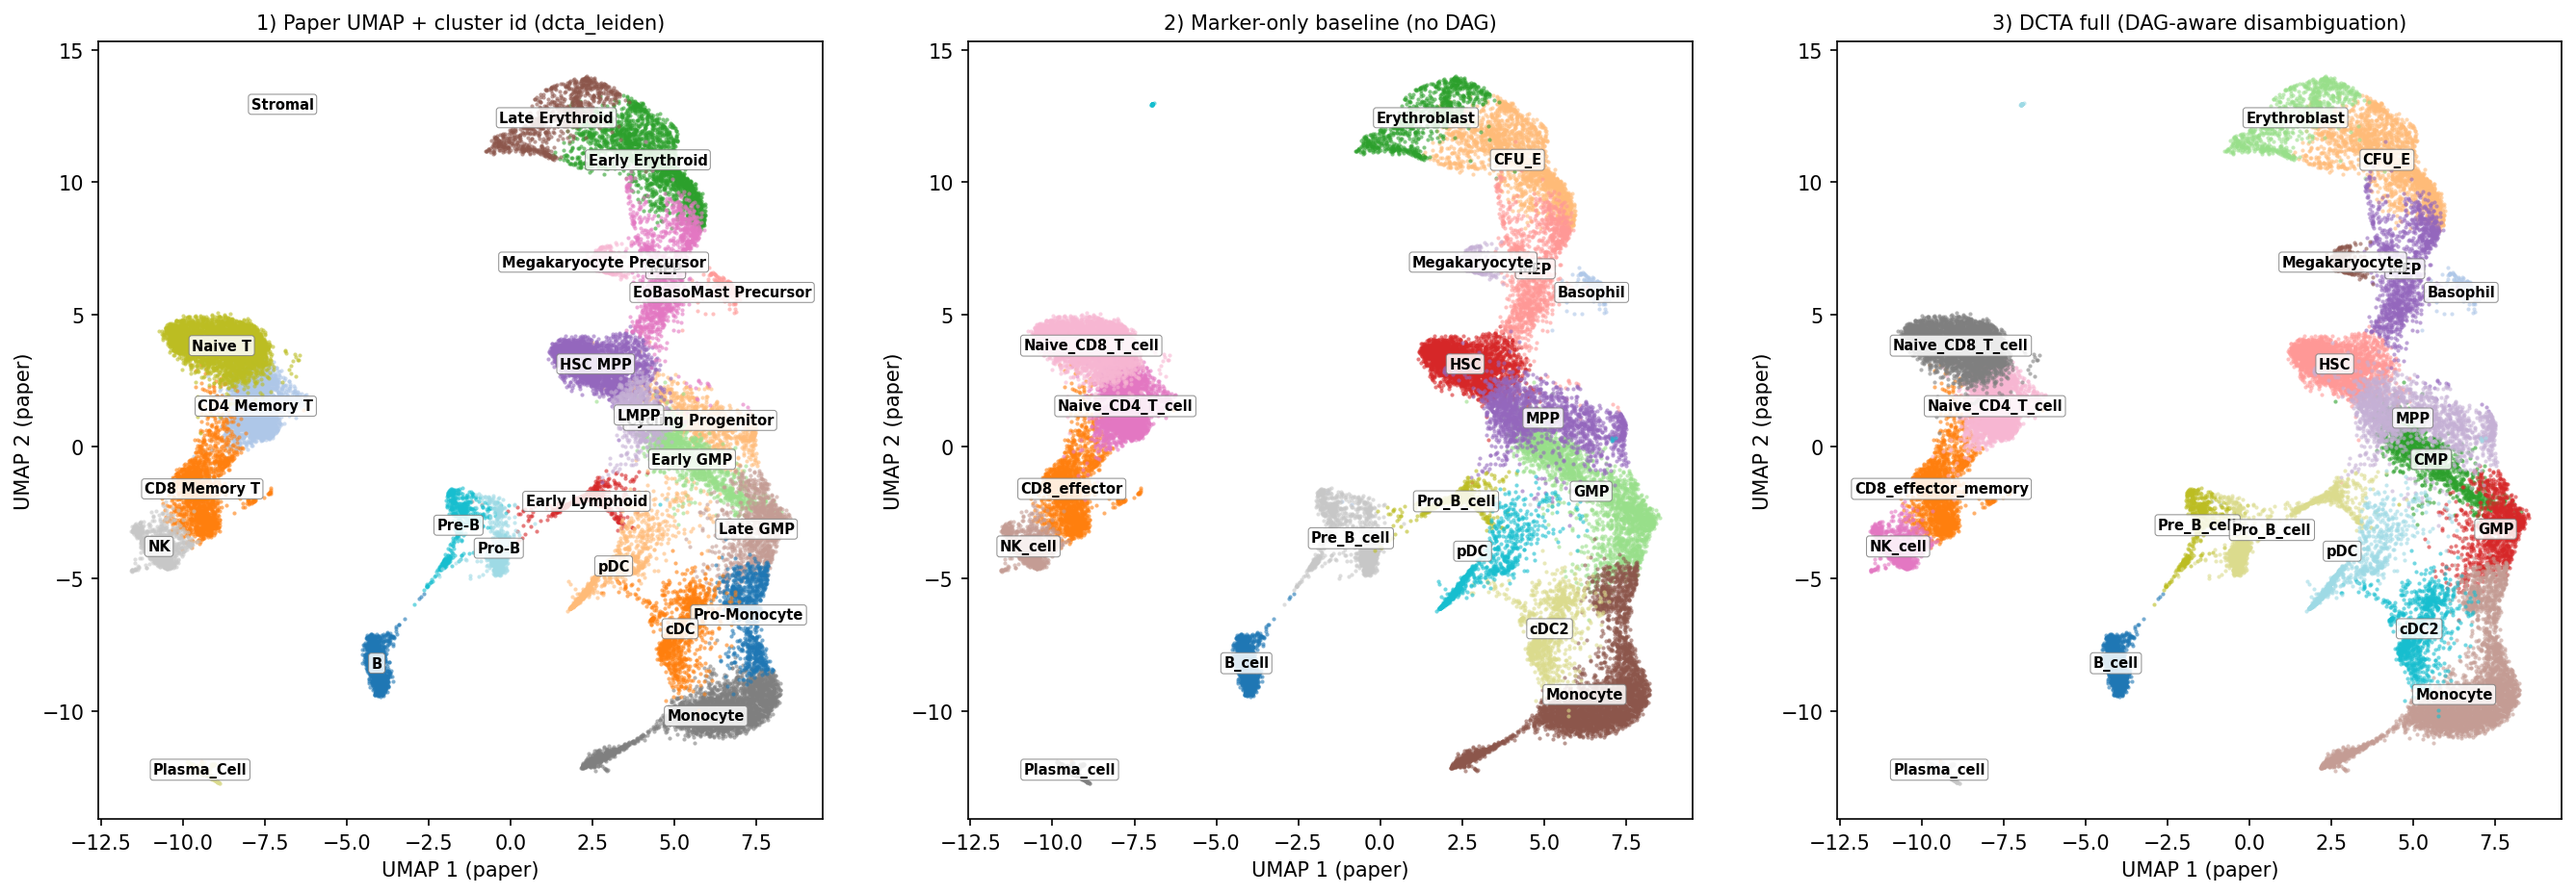
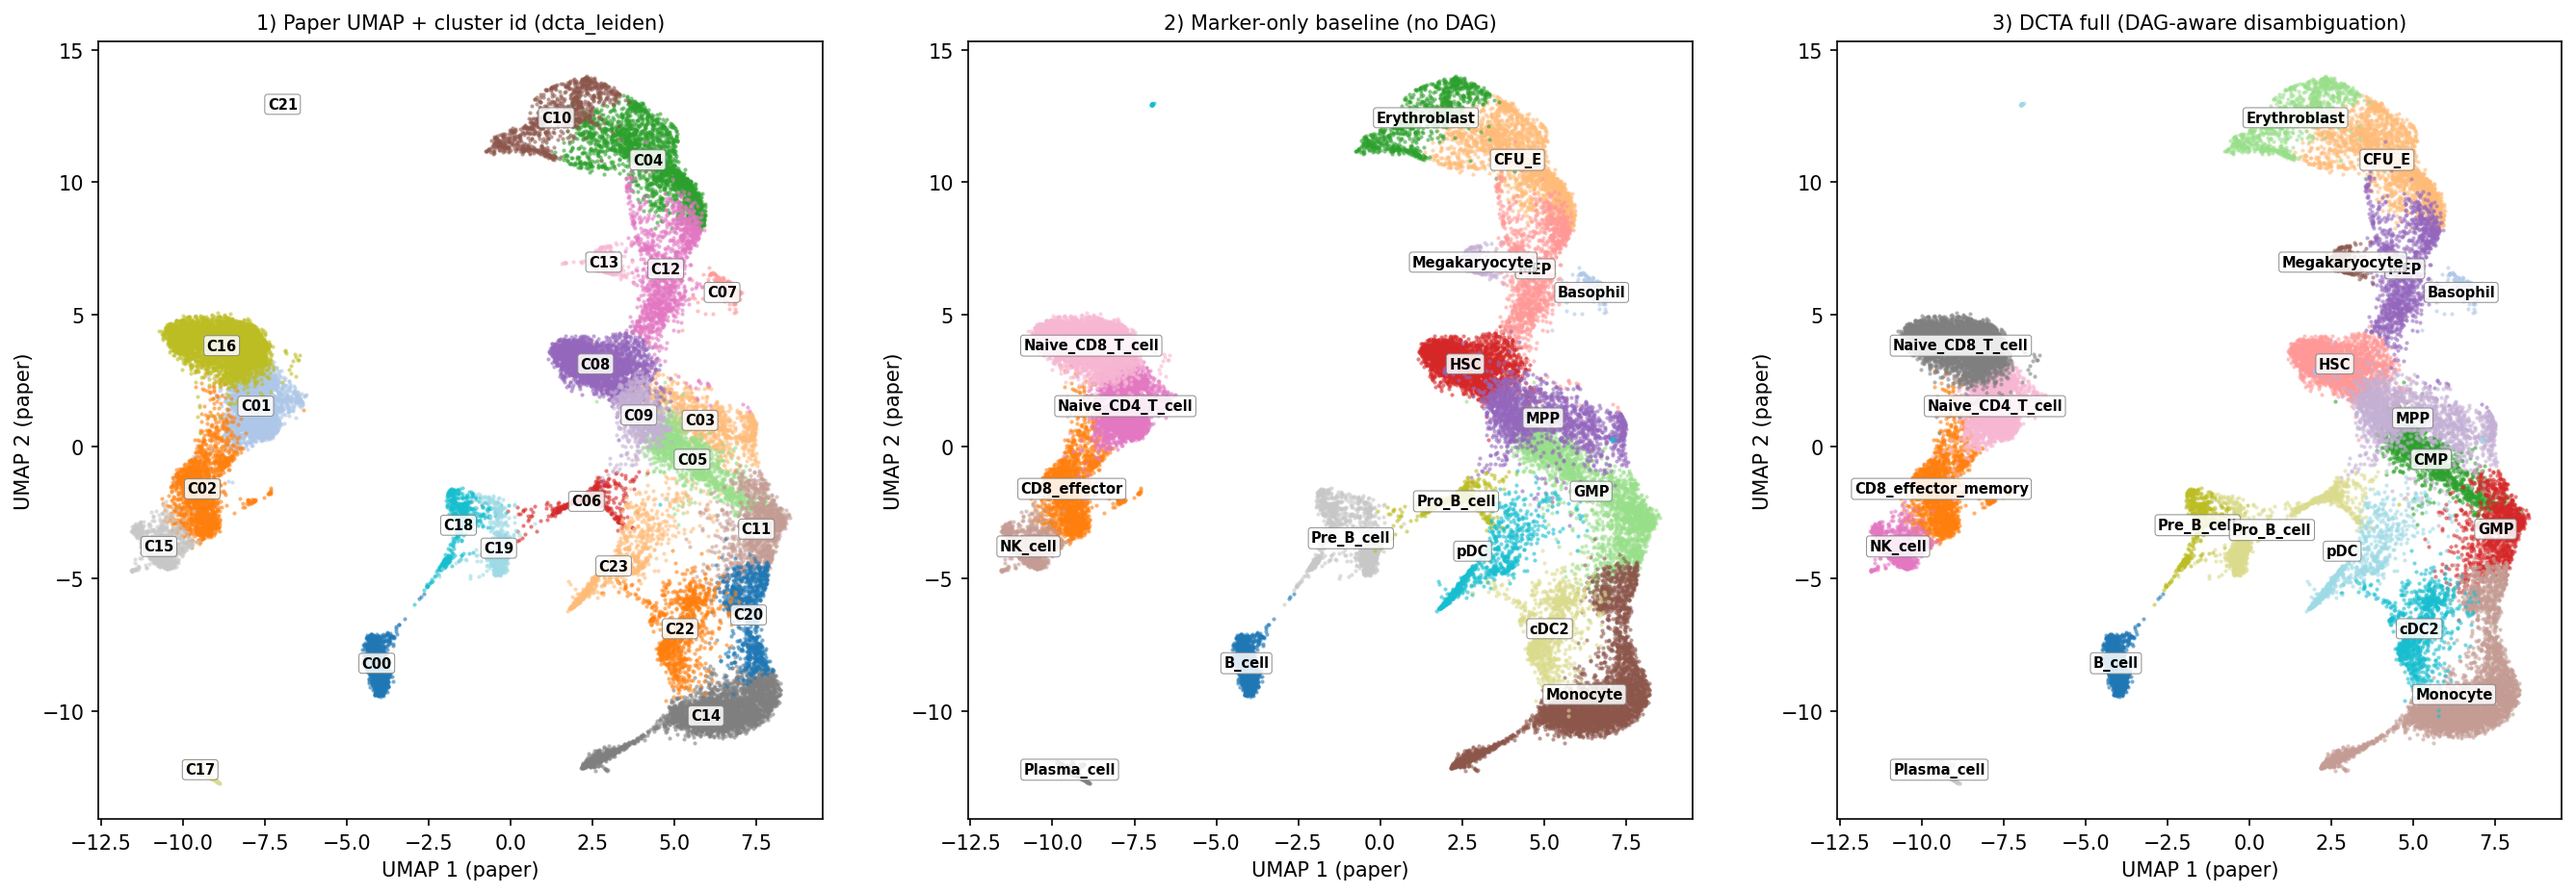
Phase 2.10.1: anonymize cluster labels from --cluster-from-obs by default
User directive: 'AuthorCellType_Broad cluster 구조를 그대로 가져와서,
label만 지운다음 사용'. Avoids label leakage when the source obs
column is a paper-curated cell-type annotation.

dcta.connectivity.run:
  New kwarg: anonymize_cluster_labels (default True).
  When cluster_from_obs is given AND anonymize=True, preserve cluster
  MEMBERSHIP but rewrite the labels to 'C00', 'C01', ... in
  lexicographic order of the source labels.
  Original mapping stored in uns['dcta']['cluster_label_map']
  ({'C00': 'B', 'C01': 'CD4 Memory T', ...}) for debugging/viz.

CLI: --keep-cluster-labels (action='store_true', default False) lets
the user opt out and keep the original labels if they explicitly
want them for downstream label inspection.

Zeng2025_BMM 30k re-run (cluster_from_obs Broad, default anonymize):
  Identical metrics to Phase 2.10:
    strict_acc:    0.620
    lineage_acc:   0.956
    marker-only:   0.598
    DCTA over baseline: +2.2 pp
    3/24 clusters changed
  Different from Phase 2.10:
    cluster IDs:     C00..C23 (was 'HSC MPP', 'LMPP', ...)
    root_cluster:    'C08' (was 'HSC MPP')
    backbone path:   C08 -> C09 -> C03 -> C05 -> C07 -> C12 -> C04 -> C10
    prior_labels:    HSC -> MPP -> MPP -> CMP -> Basophil -> MEP ->
                     CFU_E -> Erythroblast  (unchanged: marker scoring
                     identifies root + chain correctly without seeing
                     the paper labels)

This is the cleanest evaluation setup: DCTA receives only cluster
[…]

diff --git a/dcta/connectivity.py b/dcta/connectivity.py
@@ -22,6 +22,7 @@ def run(
     random_state: int = D.RANDOM_STATE,
     cluster_from_obs: str | None = None,
     use_rep: str = "X_harmony",
+    anonymize_cluster_labels: bool = True,
 ) -> ad.AnnData:
     """Build KNN on `use_rep`, cluster, and PAGA.
 
@@ -53,15 +54,29 @@ def run(
                 f"cluster_from_obs={cluster_from_obs!r} not in adata.obs"
             )
         raw = a.obs[cluster_from_obs].astype(object).to_numpy()
-        labels_str = np.array([
+        raw_str = np.array([
             "__NA__" if (v is None or (isinstance(v, float) and np.isnan(v))
                          or str(v).lower() in ("nan", "none", ""))
             else str(v)
             for v in raw
         ])
+        if anonymize_cluster_labels:
+            # Anonymize: preserve cluster membership but strip semantic
+            # labels (avoid label leakage when the source column is a
+            # paper-curated cell-type annotation).
+            uniq_raw = sorted(set(raw_str) - {"__NA__"})
+            mapping = {lbl: f"C{i:02d}" for i, lbl in enumerate(uniq_raw)}
+            mapping["__NA__"] = "__NA__"
+            labels_str = np.array([mapping[s] for s in raw_str])
+            cluster_label_map = {v: k for k, v in mapping.items() if k != "__NA__"}
+            cluster_source = (f"obs:{cluster_from_obs}(anonymized -> "
+                              f"C00..C{len(uniq_raw)-1:02d})")
+        else:
+            labels_str = raw_str
+            cluster_label_map = None
+            cluster_source = f"obs:{cluster_from_obs}"
         a.obs["dcta_leiden"] = labels_str
         a.obs["dcta_leiden"] = a.obs["dcta_leiden"].astype("category")
-        cluster_source = f"obs:{cluster_from_obs}"
     else:
         sc.tl.leiden(a, neighbors_key="dcta_nbr", resolution=resolution,
                      random_state=random_state, key_added="dcta_leiden")
@@ -89,4 +104,8 @@ def run(
     uns["cluster_source"] = cluster_source
     uns["use_rep"] = use_rep
     uns["n_rep_dims"] = n_pcs
+    if cluster_from_obs is not None and anonymize_cluster_labels:
+        # Persist the C## -> original-label mapping so downstream
+        # debugging/viz can still see what each anonymized cluster maps to.
+        uns["cluster_label_map"] = cluster_label_map
     return a

diff --git a/run_phase1.py b/run_phase1.py
@@ -84,6 +84,11 @@ def parse_args(argv=None):
                         "the cluster assignment for PAGA + downstream "
                         "(e.g. 'paper_AuthorCellType_Broad'). Requires "
                         "the column to exist in adata.obs after preprocessing.")
+    p.add_argument("--keep-cluster-labels", action="store_true", default=False,
+                   help="Preserve the original cluster labels from "
+                        "--cluster-from-obs (default anonymizes them to "
+                        "C00, C01, ... to prevent label leakage when the "
+                        "source column is a paper-curated cell-type label).")
     return p.parse_args(argv)
 
 
@@ -125,7 +130,8 @@ def main(argv=None):
     adata = dcta.connectivity.run(adata, knn_k=args.knn_diffmap_k,
                                   resolution=args.resolution,
                                   cluster_from_obs=cluster_from_obs,
-                                  use_rep=args.use_rep)
+                                  use_rep=args.use_rep,
+                                  anonymize_cluster_labels=not args.keep_cluster_labels)
     n_clust = adata.obs["dcta_leiden"].nunique()
     src = adata.uns["dcta"].get("cluster_source", "?")
     print(f"[DCTA] clusters: {n_clust} (source: {src})", flush=True)
